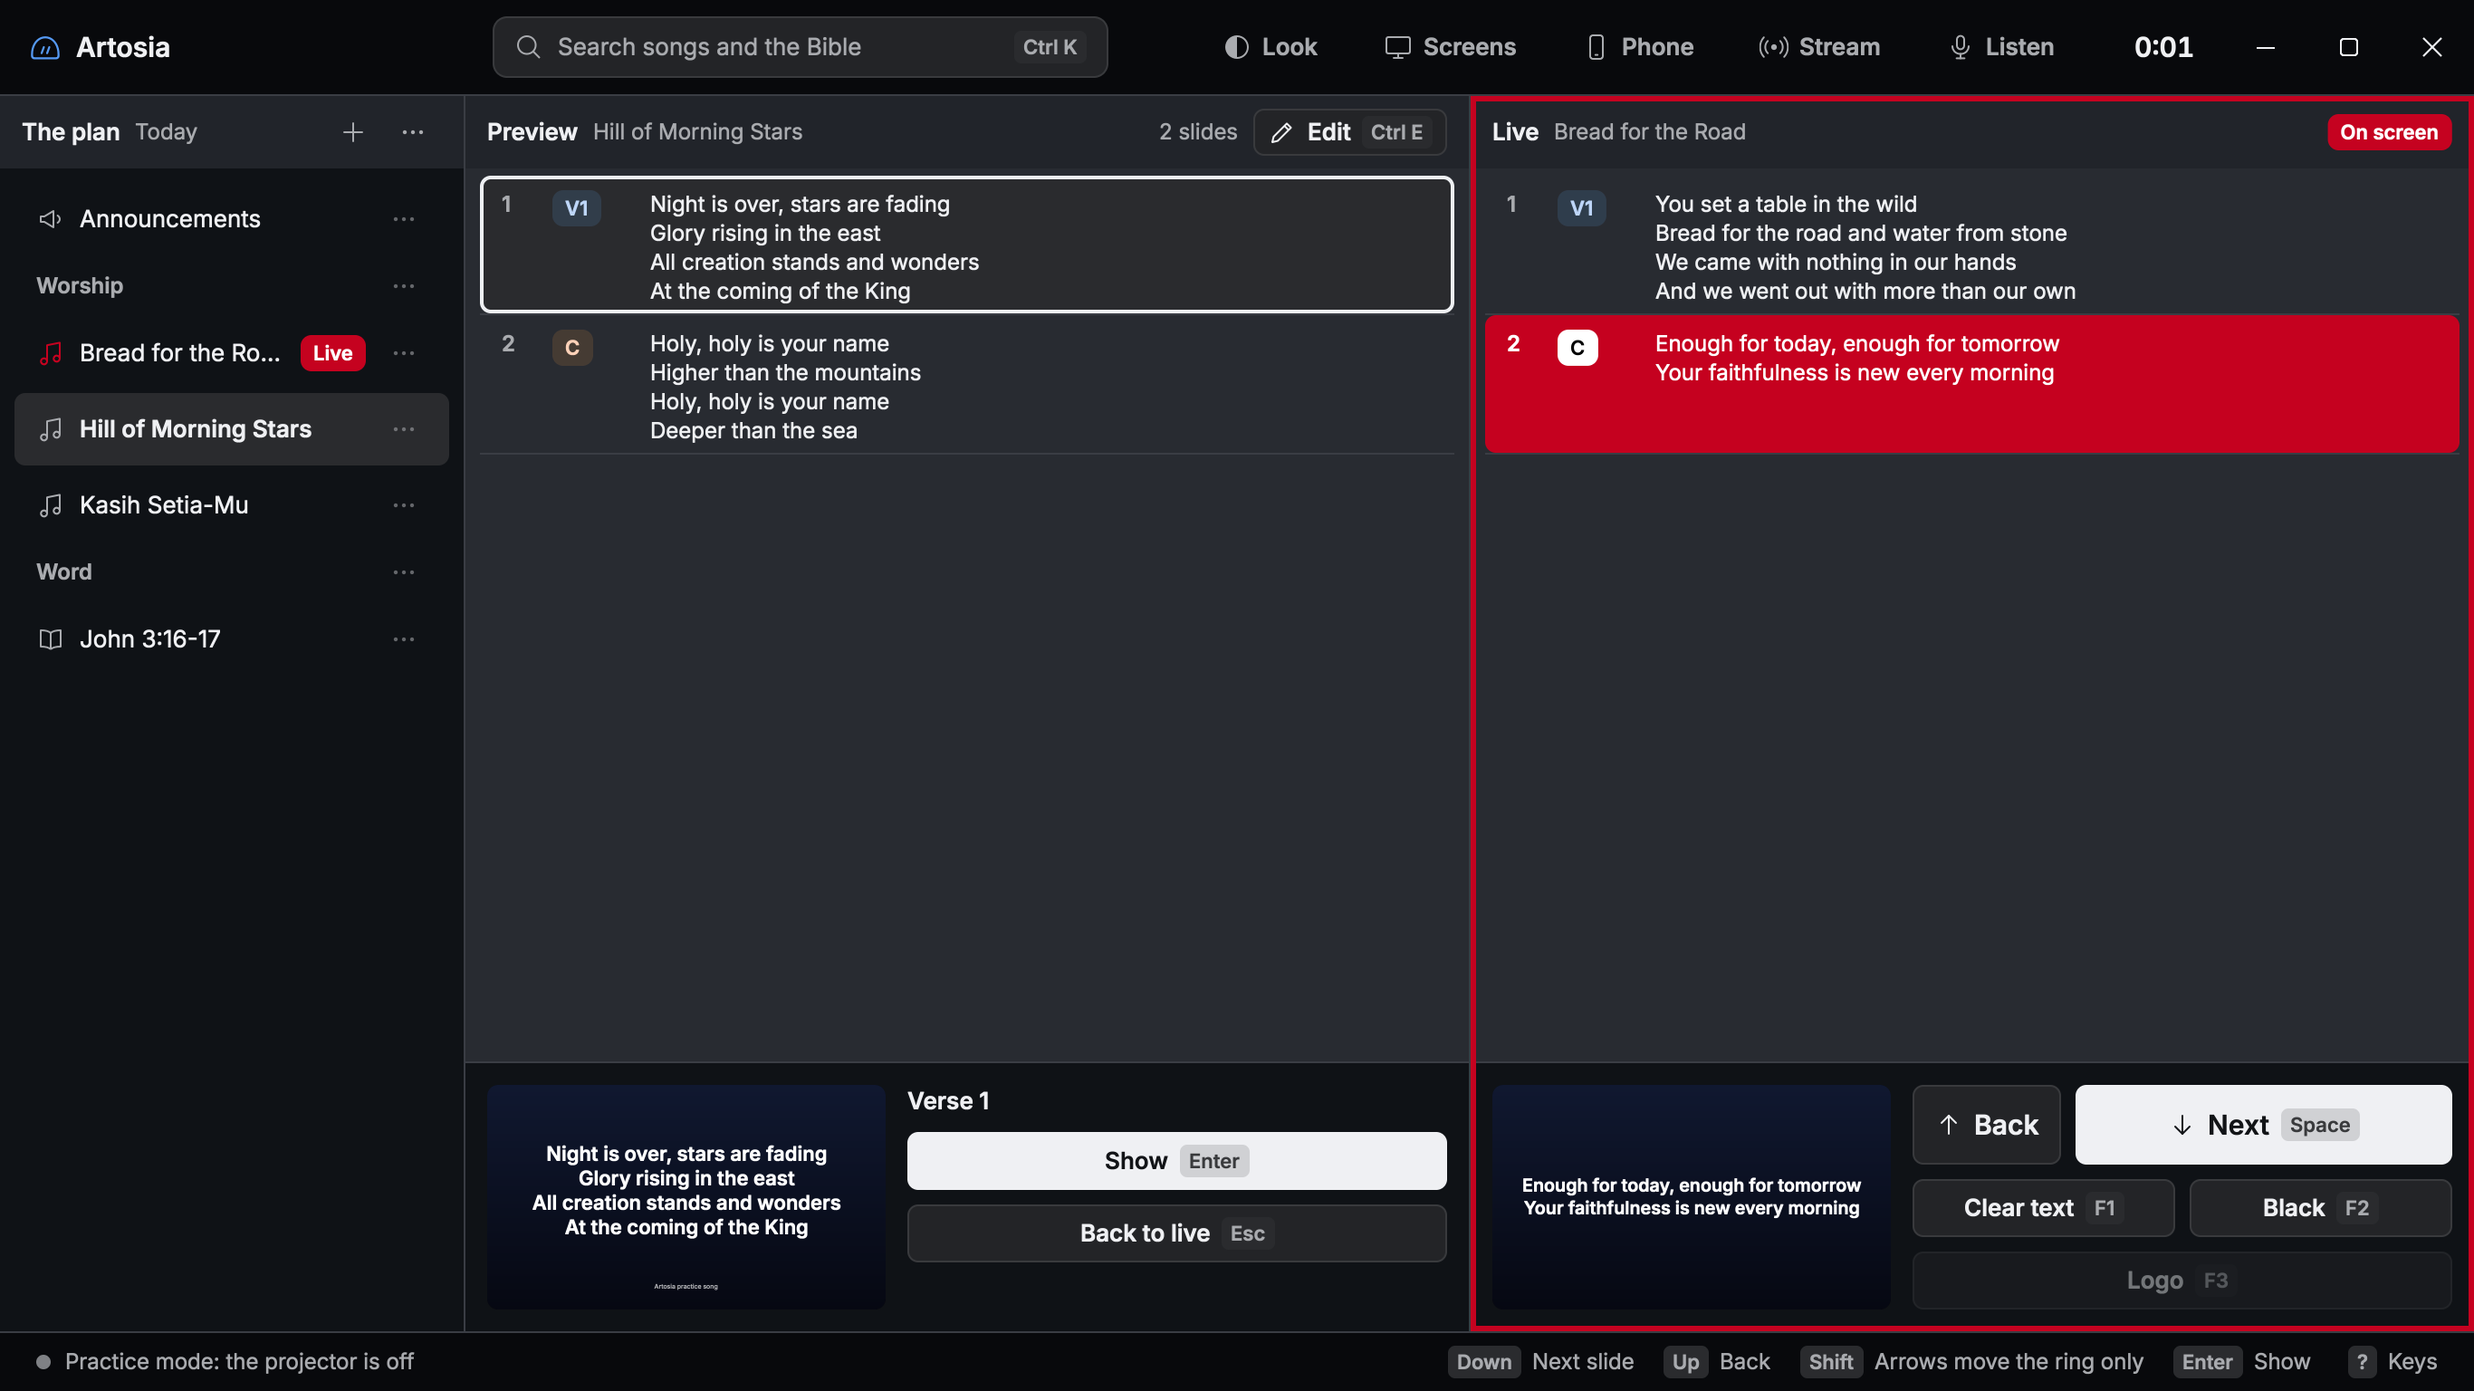
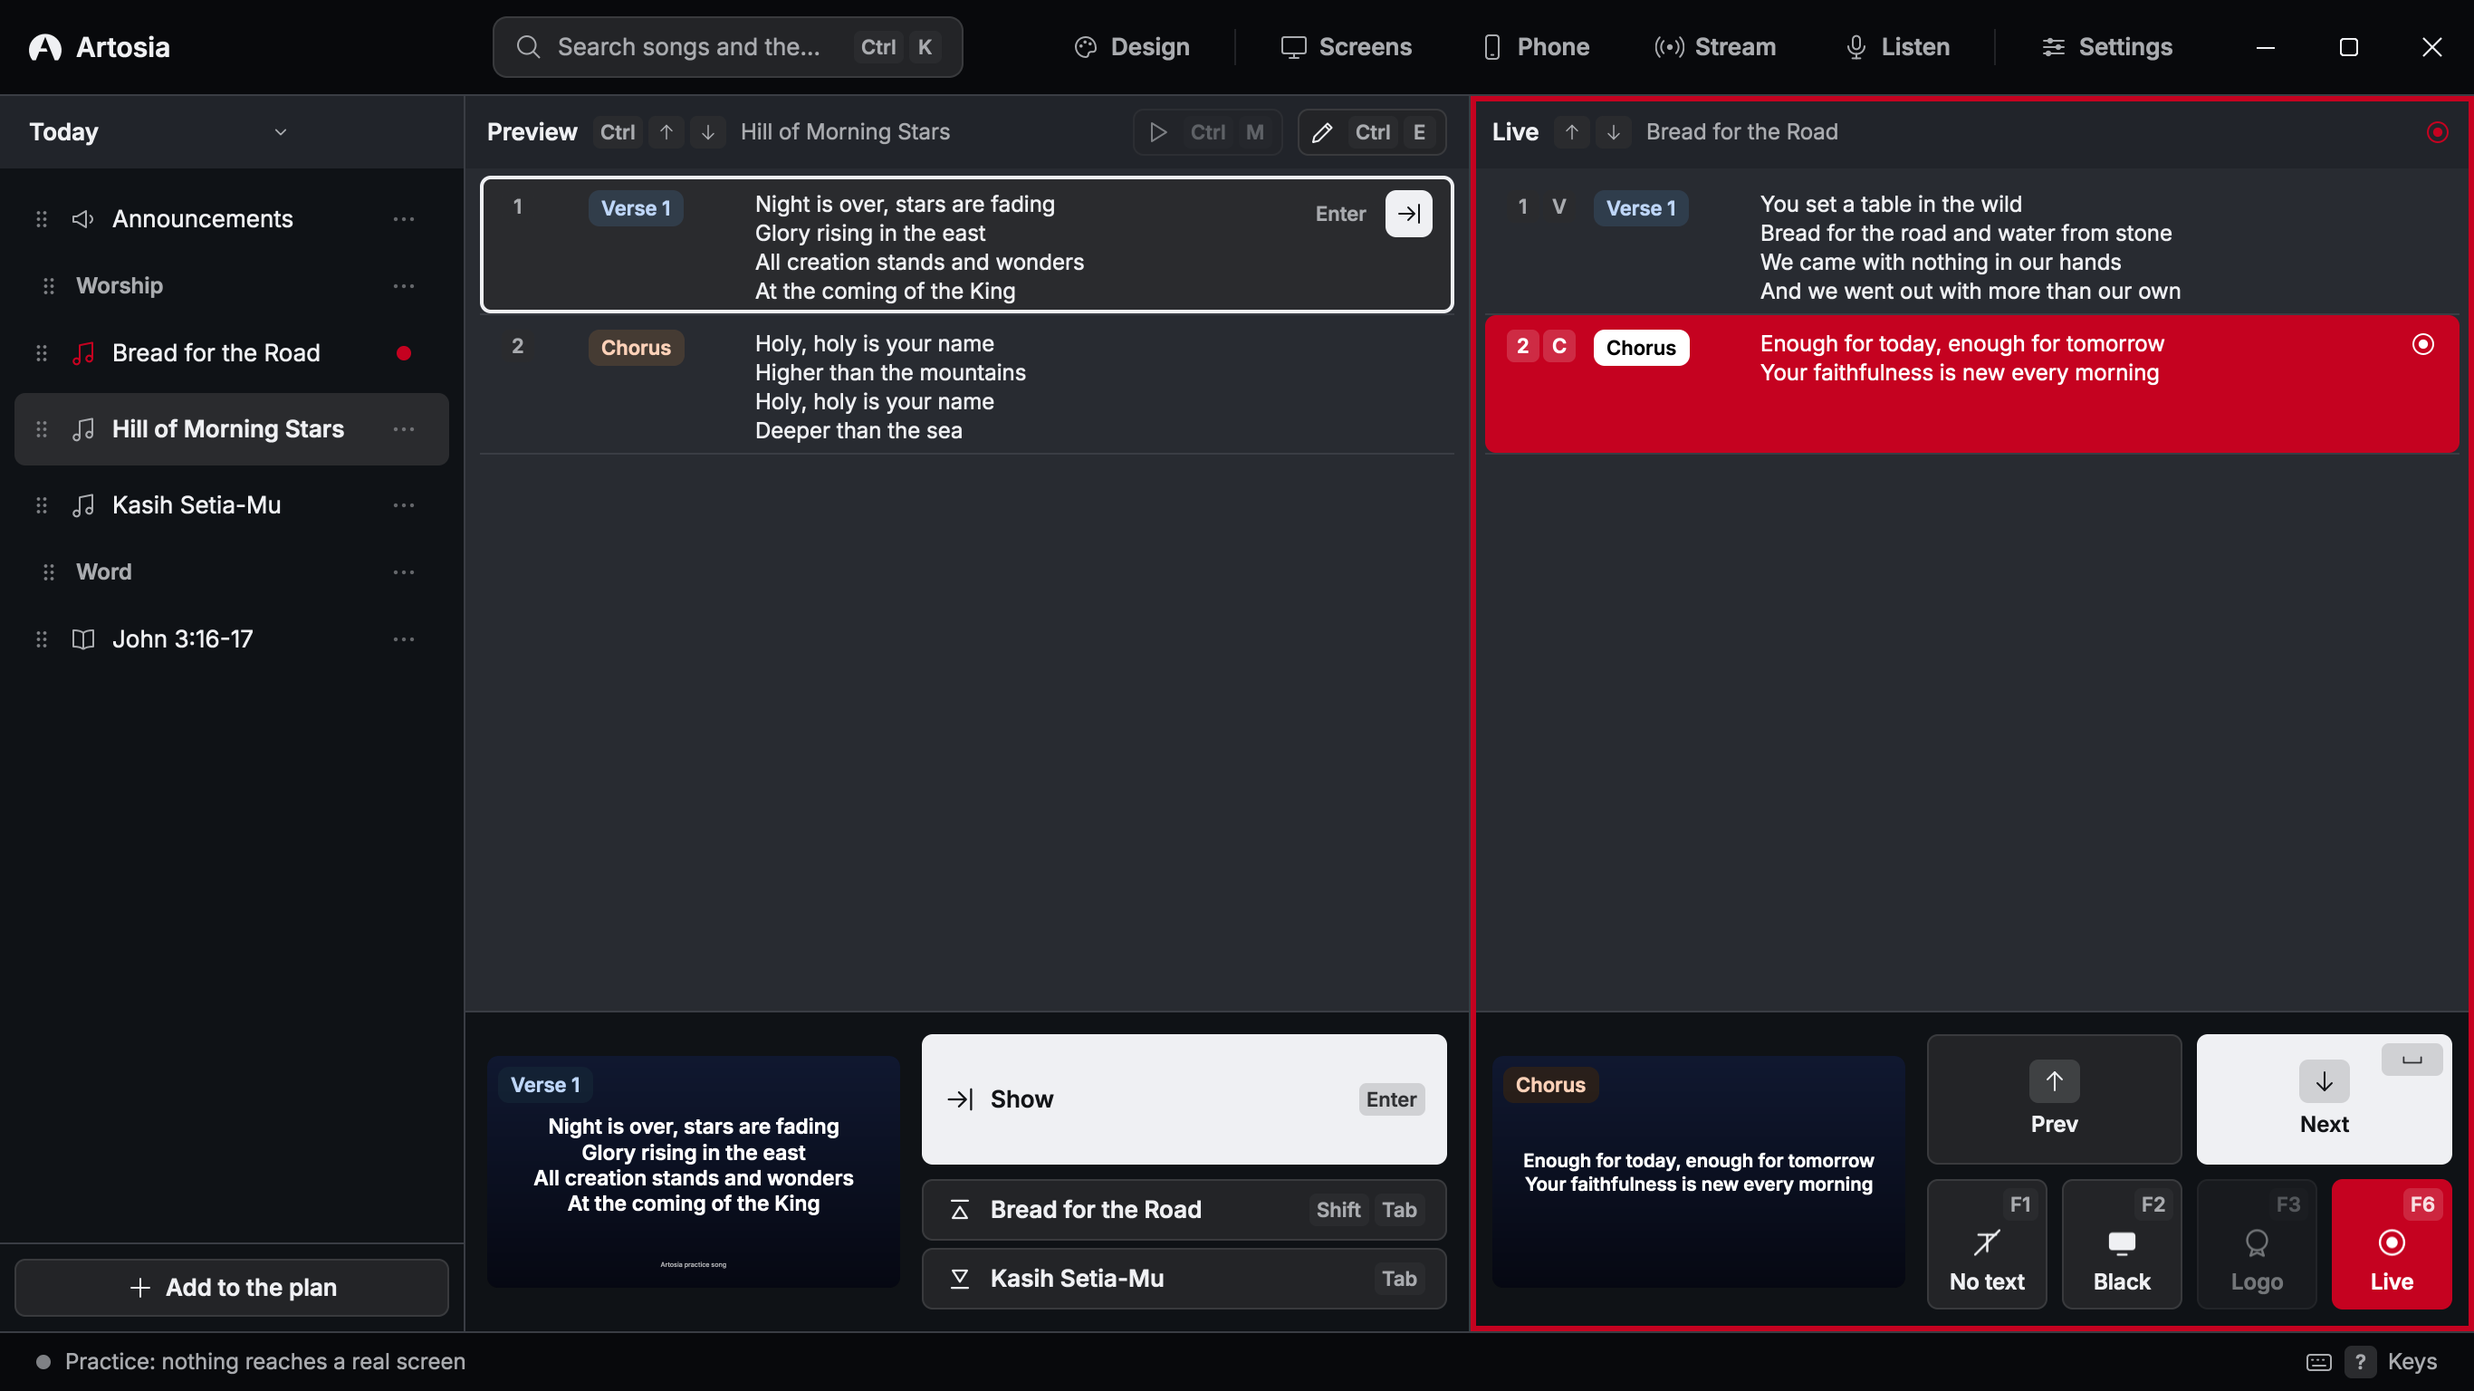
A dialog opened from search takes typing at once, the gallery is two Tab stops, and a busy picture site is asked again
Pressed in a real window: the gallery opened from search with its box ready, nine candle
previews arrived, Use fetched a 236 KB picture from Commons and Design opened again with the
words over it. The search used to blur the focus after its pick, so the box that names a
plan and the gallery's search took no typing until they were clicked; headless runs never
showed it.

The first real press of Use was answered 429. A download now waits and asks once more, the
toast says the site is busy, a headless run asks the internet for nothing, and the
User-Agent carries the version as Wikimedia's policy asks.

diff --git a/crates/artosia/src/backdrops.rs b/crates/artosia/src/backdrops.rs
@@ -130,7 +130,7 @@ fn agent() -> ureq::Agent {
         .timeout_connect(Some(Duration::from_secs(8)))
         // A line that stalls for this long has dropped; a slow one that keeps sending is let be.
         .timeout_per_read(Some(Duration::from_secs(20)))
-        .user_agent("Artosia (free worship presentation app)")
+        .user_agent(concat!("Artosia/", env!("CARGO_PKG_VERSION"), " (free worship presentation app)"))
         .build()
         .into()
 }
@@ -149,7 +149,20 @@ pub fn download(url: &str, target: &Path, got: &AtomicU64, total: &AtomicU64, ca
     if let Some(folder) = target.parent() {
         std::fs::create_dir_all(folder).map_err(|error| Failure::Disk(error.to_string()))?;
     }
-    let mut response = agent().get(url).call().map_err(failure_of)?;
+    let mut response = match agent().get(url).call() {
+        // The picture site asks a busy caller to wait: one more try after a pause, and a person
+        // who presses again in a minute gets it. It answered 429 to the first real press here.
+        Err(ureq::Error::StatusCode(429 | 503)) => {
+            for _ in 0..30 {
+                if cancel.load(Ordering::Relaxed) {
+                    return Err(Failure::Cancelled);
+                }
+                std::thread::sleep(Duration::from_millis(100));
+            }
+            agent().get(url).call().map_err(failure_of)?
+        }
+        other => other.map_err(failure_of)?,
+    };
     total.store(response.body().content_length().unwrap_or(0), Ordering::Relaxed);
     let part = target.with_extension("part");
     let result = (|| {
@@ -211,6 +224,10 @@ impl App {
     /// Opens the browser: reads which backdrops and previews are already on disk.
     pub fn open_backdrops(&mut self) {
         self.sheet = Sheet::Backdrops;
+        // A preview that did not arrive last time is asked for again.
+        self.backdrops.failed.clear();
+        // The search box is what a person opens this for, so typing works at once.
+        self.backdrops.query.focused = true;
         self.refresh_backdrops();
     }
 
@@ -258,6 +275,10 @@ impl App {
         if self.backdrops.fetch.is_some() {
             return;
         }
+        if rune::is_headless() {
+            self.say(t::BACKDROPS_OFFLINE(), None);
+            return;
+        }
         let target = backdrops::local_path(&self.backdrop_media(), &entry);
         let fetch = Fetch { id: id.to_string(), got: Arc::default(), total: Arc::default(), cancel: Arc::default() };
         let (got, total, cancel) = (fetch.got.clone(), fetch.total.clone(), fetch.cancel.clone());
@@ -288,6 +309,11 @@ impl App {
     }
 
     fn fetch_previews(&mut self) {
+        // A headless run draws and tests the window and asks nothing of the internet: a test
+        // that replays its steps would ask the picture site for the same files again and again.
+        if rune::is_headless() {
+            return;
+        }
         let media = self.backdrop_media();
         let rows = self.backdrops.visible.clone();
         let ids: Vec<String> = (rows.start * COLUMNS..(rows.end * COLUMNS).min(self.backdrops.shown.len()))

diff --git a/crates/artosia/src/ui/backdrops.rs b/crates/artosia/src/ui/backdrops.rs
@@ -101,7 +101,8 @@ fn chip(k: &Kit, key: &str, label: &str, mark: &'static Icon, on: bool, press: i
 }
 
 fn chips(s: &App, k: &Kit) -> El {
-    let mut flow = row().w_full().gap(space::S2).flex_wrap();
+    // One Tab stop; the arrows move among the subjects.
+    let mut flow = row().key("backdrop-chips").role("toolbar").label(t::BACKDROPS_TITLE()).w_full().gap(space::S2).flex_wrap().focus_group();
     flow = flow.child(chip(k, "all", t::BACKDROPS_ALL(), &ALL, s.backdrops.category.is_none(), |s| s.choose_backdrop_category(None)));
     for name in backdrops::CATEGORIES {
         let on = s.backdrops.category.as_deref() == Some(name);
@@ -177,7 +178,9 @@ fn grid(s: &App, k: &Kit) -> El {
             s.show_rows(rows);
             false
         });
-    col().key("backdrop-scroll").role("list").label(t::BACKDROPS_TITLE()).w_full().h(GRID).min_h(0.0).scroll(ScrollSpec { stick_bottom: false }).scroll_edge_fade(crate::theme::size::FADE).child(list).scroll_bar(k)
+    // The grid is one Tab stop too, with the arrows moving from picture to picture: three
+    // hundred pictures cannot each be a stop on the way to the one button under them.
+    col().key("backdrop-scroll").role("grid").focus_group().label(t::BACKDROPS_TITLE()).w_full().h(GRID).min_h(0.0).scroll(ScrollSpec { stick_bottom: false }).scroll_edge_fade(crate::theme::size::FADE).child(list).scroll_bar(k)
 }
 
 fn clock(seconds: f32) -> String {
@@ -186,7 +189,7 @@ fn clock(seconds: f32) -> String {
 }
 
 fn fact(k: &Kit, label: &str, value: &str) -> El {
-    row().w_full().gap(space::S2).child(el().w(64.0).child(text(label.to_string()).font(type_::SMALL).color(k.c.text_muted))).child(text(value.to_string()).font(type_::SMALL).color(k.c.text_base).wrap().grow(1.0))
+    row().w_full().gap(space::S2).child(el().w(64.0).child(text(label.to_string()).font(type_::SMALL).color(k.c.text_muted))).child(text(value.to_string()).font(type_::SMALL).color(k.c.text_base).truncate_middle().grow(1.0).min_w(0.0))
 }
 
 fn detail(s: &App, k: &Kit) -> El {

diff --git a/crates/artosia/src/ui/palette.rs b/crates/artosia/src/ui/palette.rs
@@ -165,7 +165,7 @@ fn hit_row(s: &App, k: &Kit, index: usize, hit: &Hit) -> El {
         .on_press_tx(move |s: &mut App, tx: &mut Tx| {
             s.palette.picked = index;
             s.pick(Pick::Open);
-            if !s.palette.open {
+            if !s.palette.open && !s.wants_focus() {
                 tx.blur();
             }
         })
@@ -437,7 +437,11 @@ fn input_row(s: &App, k: &Kit) -> El {
                         Pick::Open
                     };
                     s.pick(how);
-                    if !s.palette.open {
+                    // A pick that opened a dialog or an editor leaves the focus to it. A blur
+                    // here ran after the new field had asked for focus, in a real window only:
+                    // the box that names a plan and the gallery's search took no typing until
+                    // they were clicked (found pressing real keys, 2026-11-11).
+                    if !s.palette.open && !s.wants_focus() {
                         tx.blur();
                     }
                     return true;

diff --git a/crates/artosia/src/ui/editor.rs b/crates/artosia/src/ui/editor.rs
@@ -203,8 +203,14 @@ fn order_block(s: &App, k: &Kit, editor: &Editor) -> El {
         order = order.child(text(t::ORDER_EMPTY()).font(type_::SMALL).color(k.c.text_muted));
     }
     let mut add = row().key("order-add").w_full().gap(6.0).flex_wrap().center_y();
-    for (at, tag) in written.iter().enumerate() {
-        let tag = *tag;
+    // Each section once, however often it was written: a chorus typed twice is one chorus to add.
+    let mut offered: Vec<Tag> = Vec::new();
+    for tag in &written {
+        if !offered.contains(tag) {
+            offered.push(*tag);
+        }
+    }
+    for (at, tag) in offered.into_iter().enumerate() {
         add = add.child(chip(format!("order-add-{at}"), tag, false, true).on_press(move |s: &mut App| s.order_add(tag)));
     }
     let has_chorus = written.iter().any(|tag| tag.kind == SectionKind::Chorus) && written.iter().any(|tag| tag.kind == SectionKind::Verse);

diff --git a/crates/artosia/src/why.rs b/crates/artosia/src/why.rs
@@ -9,6 +9,7 @@ use crate::strings as t;
 /// A call over the network.
 pub fn net(error: ureq::Error) -> String {
     match error {
+        ureq::Error::StatusCode(429 | 503) => t::WHY_BUSY().to_string(),
         ureq::Error::StatusCode(code) => t::why_status(code),
         ureq::Error::Timeout(_) => t::WHY_SLOW().to_string(),
         ureq::Error::HostNotFound | ureq::Error::ConnectionFailed | ureq::Error::Io(_) => t::WHY_OFFLINE().to_string(),
@@ -31,6 +32,7 @@ pub fn backdrop(failure: &crate::backdrops::Failure) -> String {
     use crate::backdrops::Failure;
     match failure {
         Failure::Offline => t::WHY_OFFLINE().to_string(),
+        Failure::Server(429 | 503) => t::WHY_BUSY().to_string(),
         Failure::Server(code) => t::why_status(*code),
         Failure::Disk(_) => t::WHY_DISK().to_string(),
         Failure::Empty => t::WHY_DAMAGED().to_string(),

diff --git a/crates/artosia/src/ui/sheets.rs b/crates/artosia/src/ui/sheets.rs
@@ -52,7 +52,11 @@ fn looks(s: &App, k: &Kit, layer: &mut Vec<El>, tall: f32) {
         );
     }
     let background = match &look.background {
-        Background::Image(path) | Background::Video(path) => file_name(path),
+        // A backdrop from the gallery is named by its title, not by the name its file was saved under.
+        Background::Image(path) | Background::Video(path) => {
+            let stem = std::path::Path::new(path).file_stem().map(|stem| stem.to_string_lossy().to_string()).unwrap_or_default();
+            s.backdrops.entry(&stem).map(|entry| entry.title.clone()).unwrap_or_else(|| file_name(path))
+        }
         Background::Camera(name) => name.clone(),
         _ => t::LOOK_NO_FILE().to_string(),
     };

diff --git a/crates/artosia/src/strings.rs b/crates/artosia/src/strings.rs
@@ -1572,6 +1572,7 @@ text!(CMD_BACKDROPS_DETAIL, "Ready pictures and videos to put behind the words",
 // Why a download or a file failed: clauses that finish "Could not ...: {why}".
 text!(WHY_OFFLINE, "there is no internet connection", "there is no internet connection");
 text!(WHY_SLOW, "it took too long", "it took too long");
+text!(WHY_BUSY, "the site is busy, try again in a minute", "the site is busy, try again in a minute");
 text!(WHY_BROKEN, "the connection broke on the way", "the connection broke on the way");
 text!(WHY_UNREADABLE, "what arrived could not be read", "what arrived could not be read");
 text!(WHY_NOT_BIBLE, "the file is not a Bible", "the file is not a Bible");

diff --git a/crates/artosia/src/state.rs b/crates/artosia/src/state.rs
@@ -802,6 +802,12 @@ impl App {
         format!("{book} {verses}")
     }
 
+    /// Something with a field of its own has just opened: a dialog, the box that names a plan,
+    /// an editor. Whoever closes the search then must not drop the keyboard focus.
+    pub fn wants_focus(&self) -> bool {
+        self.sheet != Sheet::None || self.switcher.renaming.is_some() || self.editor.is_some() || self.notices.is_some()
+    }
+
     /// Today's date, for announcements that fill themselves with this week's birthdays.
     pub fn today(&self) -> Today<'static> {
         let time = rune::LocalTime::at((self.now * 1000.0) as i64);

diff --git a/tools/backdrops.py b/tools/backdrops.py
@@ -135,6 +135,10 @@ def licence_of(meta):
     if text_of(meta.get("Restrictions", {}).get("value")):
         return None
     author = text_of(meta.get("Artist", {}).get("value"))
+    # Commons prints an unknown author twice in one field.
+    half = len(author) // 2
+    if author and len(author) % 2 == 0 and author[:half] == author[half:]:
+        author = author[:half]
     if not author or len(author) > 120:
         return None
     url = text_of(meta.get("LicenseUrl", {}).get("value")).replace("http://", "https://", 1)

diff --git a/crates/artosia/src/speech_model.rs b/crates/artosia/src/speech_model.rs
@@ -87,7 +87,7 @@ fn fetch(path: &Path) -> Result<(), String> {
     let agent: ureq::Agent = ureq::Agent::config_builder()
         .timeout_connect(Some(Duration::from_secs(8)))
         .timeout_global(Some(Duration::from_secs(1800)))
-        .user_agent("Artosia (free worship presentation app)")
+        .user_agent(concat!("Artosia/", env!("CARGO_PKG_VERSION"), " (free worship presentation app)"))
         .build()
         .into();
     let mut response = agent.get(URL).call().map_err(crate::why::net)?;

diff --git a/crates/artosia/src/bibles.rs b/crates/artosia/src/bibles.rs
@@ -139,7 +139,7 @@ fn agent() -> ureq::Agent {
     ureq::Agent::config_builder()
         .timeout_connect(Some(Duration::from_secs(8)))
         .timeout_global(Some(Duration::from_secs(120)))
-        .user_agent("Artosia (free worship presentation app)")
+        .user_agent(concat!("Artosia/", env!("CARGO_PKG_VERSION"), " (free worship presentation app)"))
         .build()
         .into()
 }

diff --git a/crates/artosia/src/strings_snapshot.rs b/crates/artosia/src/strings_snapshot.rs
@@ -156,6 +156,7 @@ pub fn dump() -> String {
     line(out, "KEYS_OR", KEYS_OR());
     line(out, "WHY_OFFLINE", WHY_OFFLINE());
     line(out, "WHY_SLOW", WHY_SLOW());
+    line(out, "WHY_BUSY", WHY_BUSY());
     line(out, "WHY_BROKEN", WHY_BROKEN());
     line(out, "WHY_UNREADABLE", WHY_UNREADABLE());
     line(out, "WHY_NOT_BIBLE", WHY_NOT_BIBLE());
